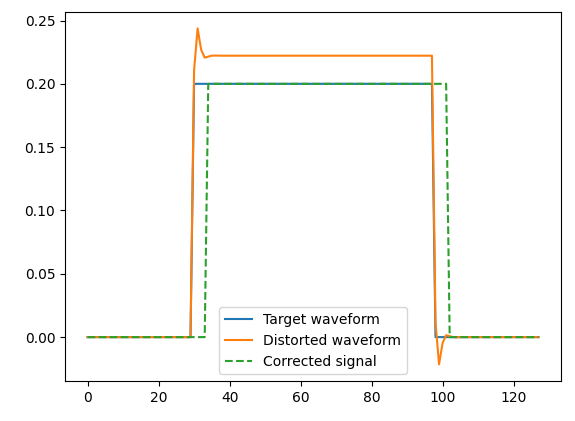
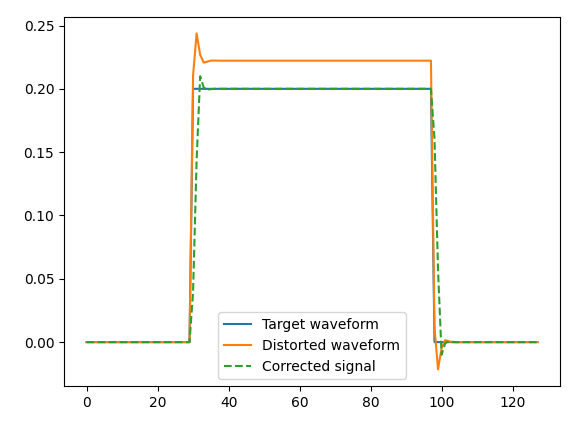
Revert "Nelder-Mead"
This reverts commit 2682db17a04c993a9f95ddb6e2af51e104452df4.

Changed region(s): [[0.0296, 0.0309, 0.9757, 0.9572]]

diff --git a/examples/advanced-topics/IIR-FIR/blackbox-filter-optimization.py b/examples/advanced-topics/IIR-FIR/blackbox-filter-optimization.py
@@ -1,11 +1,15 @@
-import time
 from typing import List
+
 import matplotlib.pyplot as plt
 from qm.qua import *
-from qm.QuantumMachinesManager import SimulationConfig, QuantumMachinesManager, LoopbackInterface
+from qm.QuantumMachinesManager import (
+    SimulationConfig,
+    QuantumMachinesManager,
+    LoopbackInterface,
+)
 import numpy as np
 import scipy.signal as signal
-import scipy.optimize as opti
+import cma
 
 qmm = QuantumMachinesManager()
 
@@ -20,94 +24,102 @@ tof = 248
 
 waveform = [0.0] * 30 + [0.2] * (pulse_len - 60) + [0.0] * 30
 
-# We use an arbitrarily selected filter for distorting the signal
+# We use an  arbitrarily selected filter for distorting the signal
 distorted_waveform = signal.lfilter(
     np.array([1]), np.array([0.95, -0.15, 0.1]), waveform
 )
 
+plt.plot(waveform)
+plt.plot(distorted_waveform)
 
-def perform(params: List[float]):
-    params = np.array(params)
+plt.figure()
 
-    feedback_filter = params[:M]
-    feedforward_filter = params[M:]
+
+def cost(params: List[float]):
+    """
+    params:
+    """
+    M = 0  # number of feedback taps 0, 1, 2.
+    feedback_filter = np.array(params[:M])
+    feedforward_filter = np.array(params[M:])
     print("feedback:", feedback_filter)
     print("feedforward:", feedforward_filter)
-    if bCalc:  # Use the signal module to simulate the filter behavior.
-        corrected_signal = signal.lfilter(
-            feedforward_filter, feedback_filter, distorted_waveform
-        )
-    else:  # Use the OPX to get the real data (simulated in this case).
-        config = {
-            "version": 1,
-            "controllers": {
-                "con1": {
-                    "type": "opx1",
-                    "analog_outputs": {
-                        1: {
-                            "offset": +0.0,
-                            "filter": {
-                                "feedback": feedback_filter,
-                                "feedforward": feedforward_filter,
-                            },
+    config = {
+        "version": 1,
+        "controllers": {
+            "con1": {
+                "type": "opx1",
+                "analog_outputs": {
+                    1: {
+                        "offset": +0.0,
+                        "filter": {
+                            "feedback": feedback_filter,
+                            "feedforward": feedforward_filter,
                         },
                     },
-                    "analog_inputs": {
-                        1: {"offset": +0.0},
-                    },
+                },
+                "analog_inputs": {
+                    1: {"offset": +0.0},
                 },
             },
-            "elements": {
-                "flux1": {
-                    "singleInput": {"port": ("con1", 1)},
-                    "outputs": {"output1": ("con1", 1)},
-                    "intermediate_frequency": 10,
-                    "operations": {
-                        "readoutOp": "readoutPulse",
-                    },
-                    "time_of_flight": tof,
-                    "smearing": 0,
+        },
+        "elements": {
+            "flux1": {
+                "singleInput": {"port": ("con1", 1)},
+                "outputs": {"output1": ("con1", 1)},
+                "intermediate_frequency": 10,
+                "operations": {
+                    "readoutOp": "readoutPulse",
                 },
+                "time_of_flight": tof,
+                "smearing": 0,
             },
-            "pulses": {
-                "readoutPulse": {
-                    "operation": "measure",
-                    "length": pulse_len,
-                    "waveforms": {"single": "const_wf"},
-                    "digital_marker": "ON",
-                    "integration_weights": {"x": "xWeights", "y": "yWeights"},
-                },
+        },
+        "pulses": {
+            "readoutPulse": {
+                "operation": "measure",
+                "length": pulse_len,
+                "waveforms": {"single": "const_wf"},
+                "digital_marker": "ON",
+                "integration_weights": {"x": "xWeights", "y": "yWeights"},
             },
-            "waveforms": {
-                "const_wf": {"type": "arbitrary", "samples": distorted_waveform},
+        },
+        "waveforms": {
+            "const_wf": {"type": "arbitrary", "samples": distorted_waveform},
+        },
+        "digital_waveforms": {
+            "ON": {"samples": [(1, 0)]},
+        },
+        "integration_weights": {
+            "xWeights": {
+                "cosine": [1.0] * (pulse_len // 4),
+                "sine": [0.0] * (pulse_len // 4),
             },
-            "digital_waveforms": {
-                "ON": {"samples": [(1, 0)]},
+            "yWeights": {
+                "cosine": [0.0] * (pulse_len // 4),
+                "sine": [1.0] * (pulse_len // 4),
             },
-            "integration_weights": {
-                "xWeights": {
-                    "cosine": [1.0] * (pulse_len // 4),
-                    "sine": [0.0] * (pulse_len // 4),
-                },
-                "yWeights": {
-                    "cosine": [0.0] * (pulse_len // 4),
-                    "sine": [1.0] * (pulse_len // 4),
-                },
-            },
-        }
+        },
+    }
 
-        job = qmm.simulate(
-            config,
-            filter_optimization,
-            SimulationConfig(
-                duration=150,
-                simulation_interface=LoopbackInterface(
-                    [("con1", 1, "con1", 1)], latency=200
-                ),
+    job = qmm.simulate(
+        config,
+        filter_optimization,
+        SimulationConfig(
+            duration=150,
+            simulation_interface=LoopbackInterface(
+                [("con1", 1, "con1", 1)], latency=200
             ),
-        )
-        job.result_handles.wait_for_all_values()
-        corrected_signal = -job.result_handles.adc.fetch_all() / 4096
+        ),
+    )
+    job.result_handles.wait_for_all_values()
+    corrected_signal = -job.result_handles.adc.fetch_all() / 4096
+
+    if True:
+        plt.plot(waveform)
+        plt.plot(distorted_waveform)
+        plt.plot(corrected_signal * np.sum(waveform) / np.sum(corrected_signal), "--")
+        plt.legend(["Target waveform", "Distorted waveform", "Corrected signal"])
 
     corr = np.correlate(corrected_signal, waveform, "full") / (
         np.sqrt(
@@ -115,78 +127,18 @@ def perform(params: List[float]):
             * np.correlate(waveform, waveform)
         )
     )
-
-    loss = (1 - np.max(corr))
+    loss = 1 - np.max(corr)
 
     print("loss:", loss)
-    if bPlot:
-        plt.plot(waveform)
-        plt.plot(distorted_waveform)
-        plt.plot(corrected_signal * np.sum(waveform) / np.sum(corrected_signal), "--")
-        plt.legend(["Target waveform", "Distorted waveform", "Corrected waveform"])
-        if bCalc:
-            plt.title('Output according to the SciPy signal module')
-        else:
-            plt.title('Measured output')
-        print(f"delay ~ {np.argmax(corr) - len(waveform) + 1}ns")
+    print(f"delay ~ {np.argmax(corr)-len(waveform)+1}ns")
     return loss
 
 
-M = 2  # number of feedback taps 0, 1, 2.
-eps = 1e-10
-param_number = 10
-initial_simplex = np.zeros([param_number + 1, param_number])
-initial_simplex[0, :] = np.array([0.01] * M + [0.8] + [0.01] * (param_number - 1 - M))
-for i in range(param_number):
-    initial_simplex[i + 1, :] = initial_simplex[0, :]
-    initial_simplex[i + 1, i] = initial_simplex[0, i] + 0.2
+param_number = 5
+iterations = 15
 
-bCalc = True
-bPlot = False
-if bCalc:  # Since it is only a calculation, we can let it converge to stricter values.
-    fatol = 1e-7
-    xatol = 1e-3
-else:
-    fatol = 1e-5
-    xatol = 1e-2
-
-start_time = time.time()
-solver = opti.minimize(
-    perform,
-    # Ignored when there is a simplex, but this is also a good starting point.
-    np.array([0] * M + [1] + [0] * (param_number - 1 - M)) + 0.2 * np.random.rand(param_number),
-    method="Nelder-Mead",
-    options={
-        "initial_simplex": initial_simplex,
-        "fatol": fatol,
-        "xatol": xatol,
-        "adaptive": False,
-    },
-    bounds=opti.Bounds([-2 + eps] * (M > 0) +  # First feedback tap is bounded at (-2,2)
-                       [-1 + eps] * (M > 1) +  # Second feedback tap is bounded at (-1,1)
-                       [-1] * (param_number - (M > 0) - (M > 1)),  # feedforward taps are bounded at [-1,1]
-                       [2 - eps] * (M > 0) +  # First feedback tap is bounded at (-2,2)
-                       [1 - eps] * (M > 1) +  # Second feedback tap is bounded at (-1,1)
-                       [1] * (param_number - (M > 0) - (M > 1)),  # feedforward taps are bounded at [-1,1]
-                       ),
-)
-
-print(f'It took {int((time.time() - start_time)//60)}:{int((time.time() - start_time)%60)} minutes')
-bPlot = True
-bCalc = False
-perform(solver.x)
-
+es = cma.CMAEvolutionStrategy(np.random.rand(param_number), 1, {"bounds": [-1, 1]})
+es.optimize(cost, iterations=iterations)
 plt.figure()
-corrected_waveform = signal.lfilter(
-    np.array(solver.x[M:]), np.array(solver.x[:M]), distorted_waveform
-)
-norm = np.sum(waveform) / np.sum(corrected_waveform)
-corrected_waveform = signal.lfilter(
-    np.array(solver.x[M:]*norm), np.array(solver.x[:M]), distorted_waveform
-)
-
-plt.plot(waveform)
-plt.plot(distorted_waveform)
-plt.plot(corrected_waveform, "--")
-plt.legend(["Target waveform", "Distorted waveform", "Corrected waveform"])
-plt.title('Output according to the SciPy signal module')
+cost(es.result_pretty().xbest)
+plt.show()
